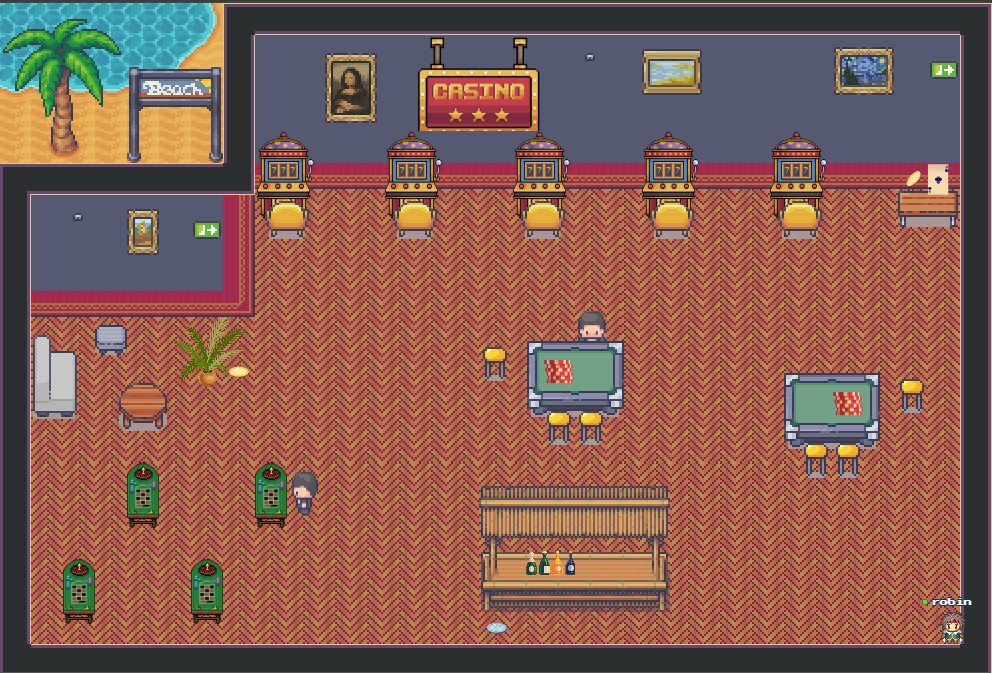
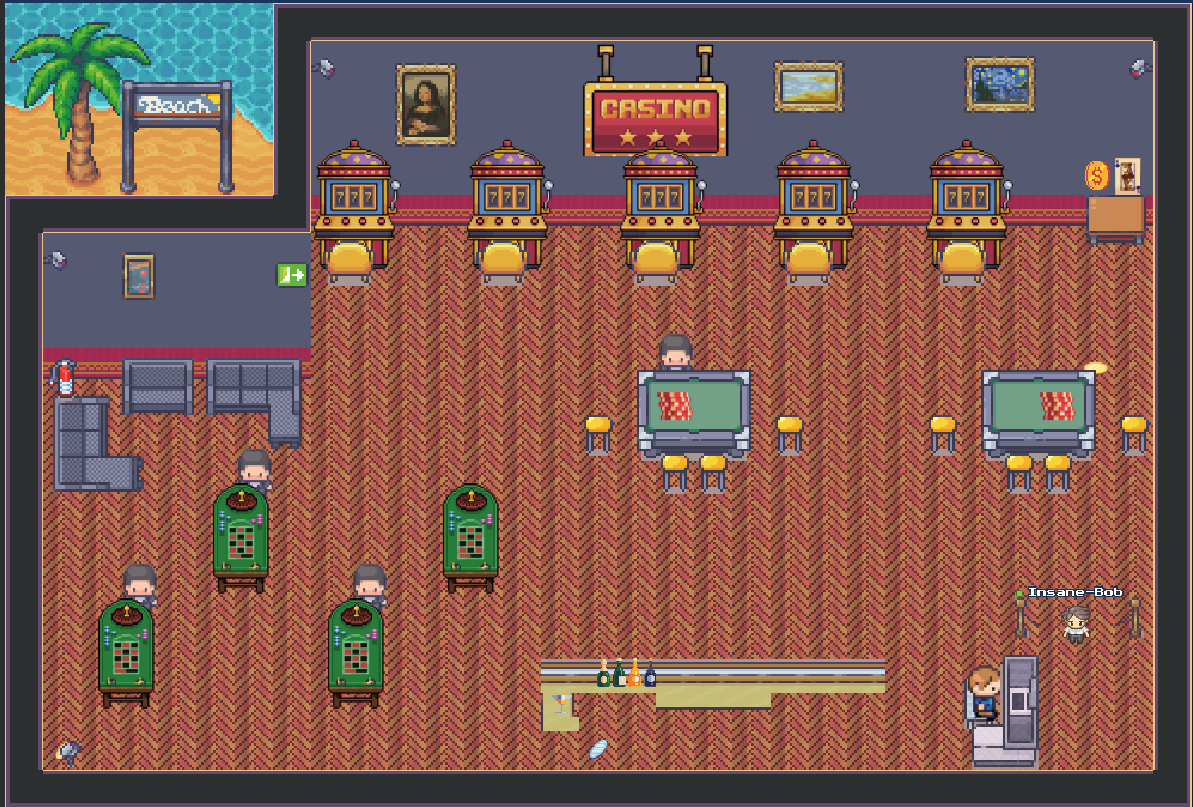
fix: correct the right image of the casino

diff --git a/index.html b/index.html
@@ -148,50 +148,11 @@
         </header>
         <main>
             <section>
-                <h2>Test my map</h2>
+                <h2>Welcome to our casino ! </h2>
                 <p><a id="testMapURL" href="#" class="url"></a></p>
                 <p class="tips">(In order to test another map, locate "map.tmj" at the end of the URL and replace it by another file name)</p>
-                <img src="/map.png" alt="Map thumbnail" class="map">
+                <img src="/CasinoAdventure.png" alt="Map thumbnail" class="map">
                 <p><a id="testMapBtnURL" href="#" class="button">Test my map</a></p>
-            </section>
-
-            <section>
-                <h2>Publish my map</h2>
-                <p>Register your room on WorkAdventure!</p>
-                <p>Copy and paste the map URL in WorkAdventure's administration panel:</p>
-                <p><span id="tmjURL" class="url-box url"></span></p>
-            </section>
-
-            <section>
-                <h2>Connect and get help</h2>
-                <div>
-                    <div class="socials">
-                        <a href="https://discord.gg/G6Xh9ZM9aR" target="_blank" title="discord">
-                            <img src="/images/discord.png" alt="discord">
-                        </a>
-                        <a href="https://github.com/thecodingmachine/workadventure" target="_blank" title="github">
-                            <img src="/images/github.png" alt="github">
-                        </a>
-                        <a href="https://www.youtube.com/channel/UCXJ9igV-kb9gw1ftR33y5tA" target="_blank" title="youtube">
-                            <img src="/images/youtube.png" alt="youtube">
-                        </a>
-                        <a href="https://twitter.com/Workadventure_" target="_blank" title="twitter">
-                            <img src="/images/twitter.png" alt="twitter">
-                        </a>
-                        <a href="https://www.instagram.com/workadventure_" target="_blank" title="instagram">
-                            <img src="/images/instagram.png" alt="instagram">
-                        </a>
-                        <a href="https://www.linkedin.com/company/workadventu-re" target="_blank" title="linkedin">
-                            <img src="/images/linkedin.png" alt="linkedin">
-                        </a>
-                    </div>
-
-                    <div>
-                        <a href="https://www.youtube.com/watch?v=lu1IZgBJJD4&list=PL7jmrMKZfjCnz36FvezxJ-Tshuh3Zz-nc&ab_channel=WorkAdventure"
-                        target="_blank">Watch tutorials</a>
-                        <a href="https://discord.gg/G6Xh9ZM9aR" target="_blank">Talk to the community</a>
-                    </div>
-                </div>
             </section>
         </main>
     </div>
